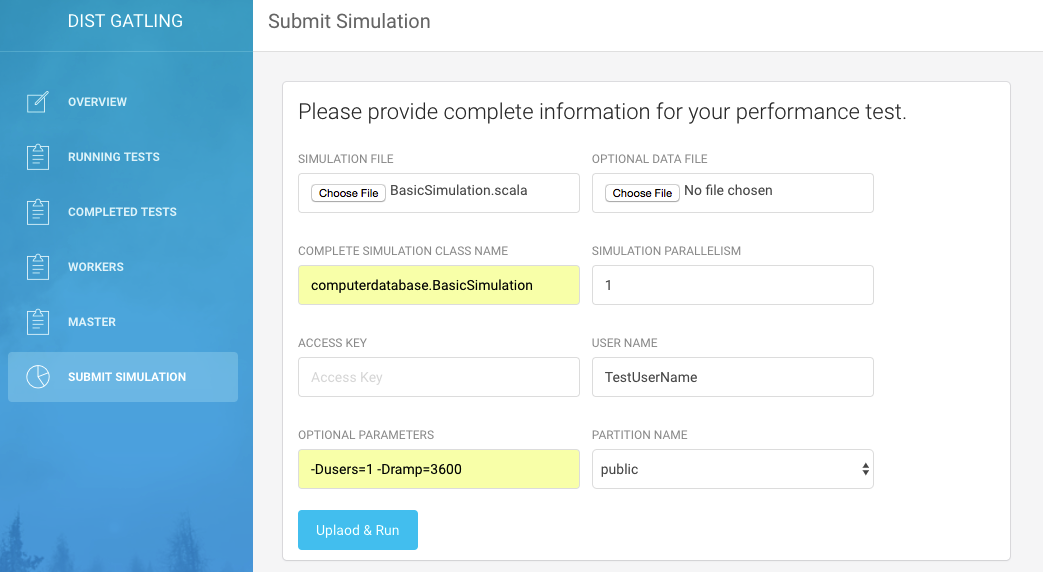
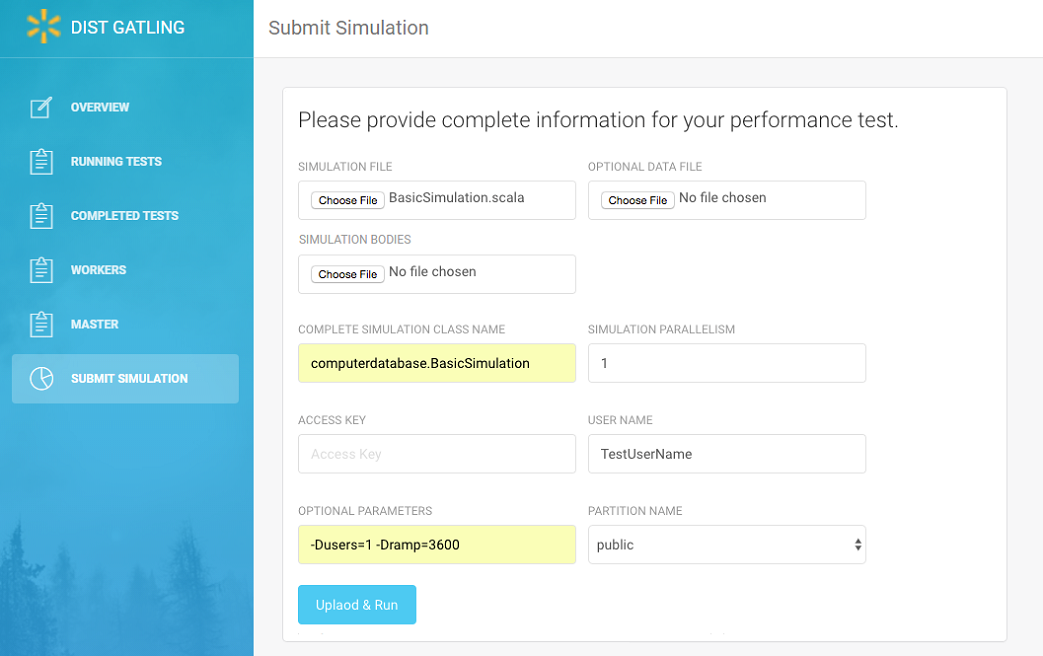
Update README.md and screenshot for show bodies feature

diff --git a/README.md b/README.md
@@ -42,7 +42,7 @@ The Cluster Master  provides users interfaces and REST API's for basic operation
     - Tracking the progress of distributed tasks
     - Collecting and Aggregating performance reports
     - Providing a system of records for  multiple simulation history
-    - Maintaining repository for simulation and data files
+    - Maintaining repository for simulation, data and bodies files
    
 Different projects could share the same cluster and run side by side on the same cluster with  complete isolation
 
@@ -50,7 +50,7 @@ Different projects could share the same cluster and run side by side on the same
 
 After joining the cluster, CW workers are responsible for 
     - Running performance tests
-    - Pulling Simulation and data  files from the master
+    - Pulling Simulation, data and bodies files from the master
     - Proving a streaming REST end points for error logs , std logs and simulation logs
     
    
@@ -64,7 +64,7 @@ After cloning or downloading the repository of distGatling ,follow the following
     1. Update the application.yml file settings (gatling-rest and gatling-agent)
     
     job:
-      path: "/workspace/gatling-charts-highcharts-bundle-2.1.7" # Path to the base directory where the gatling lib, simulation, data, and conf are stored
+      path: "/workspace/gatling-charts-highcharts-bundle-2.1.7" # Path to the base directory where the gatling lib, simulation, data, bodies and conf are stored
       logDirectory: "/workspace/gatling-charts-highcharts-bundle-2.1.7/" # Base directory for log files(log/error and log/std)
       command: "/bin/bash" # Base command to run gatling.sh file
       artifact: "/workspace/gatling-charts-highcharts-bundle-2.1.7/bin/{0}.sh" # Path for the location of gatling.sh
@@ -123,7 +123,7 @@ If the worker become alive after recovery it should re-join the cluster and re-r
 ### Start a distributed simulation task - users provide  the worker pool to use, the simulation file to run and number of parallel tasks
 ![Alt text](images/submit_simulation_job.png "Start a distributed simulation task")
 <!-- <img src="/images/submit_simulation_job.png" width="700" height="400" alt="Start a distributed simulation task"/> -->
-
+NB: The bodies input wait a zip containing directly bodies files used for your test
 ---
 
 ### Track the progress of a distributed simulation task on the cluster, after all the distributed tasks complete a button will appear on this page to allow you generate and view the gatling report
